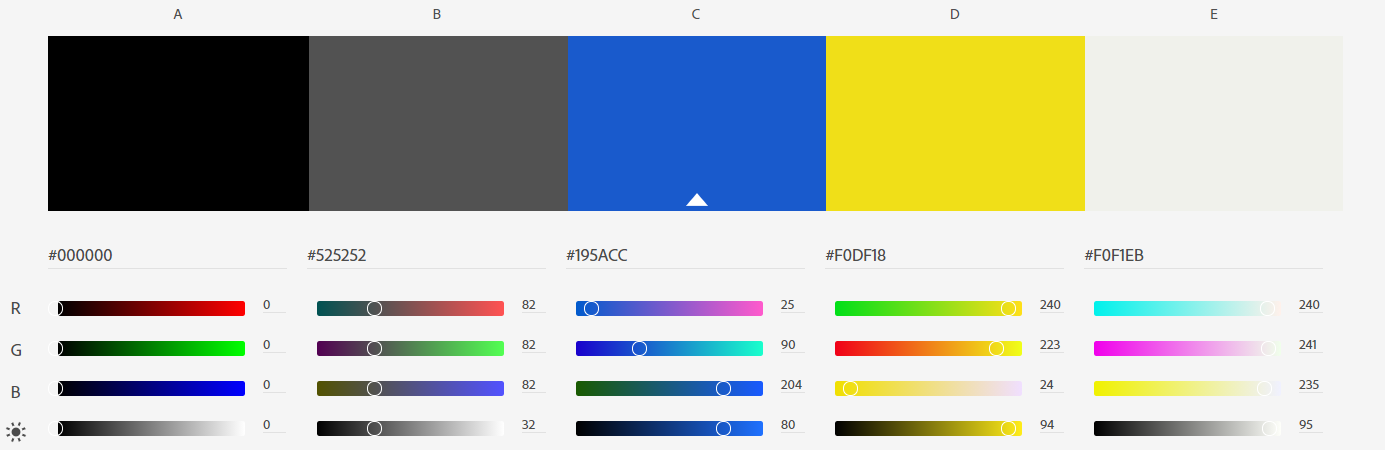
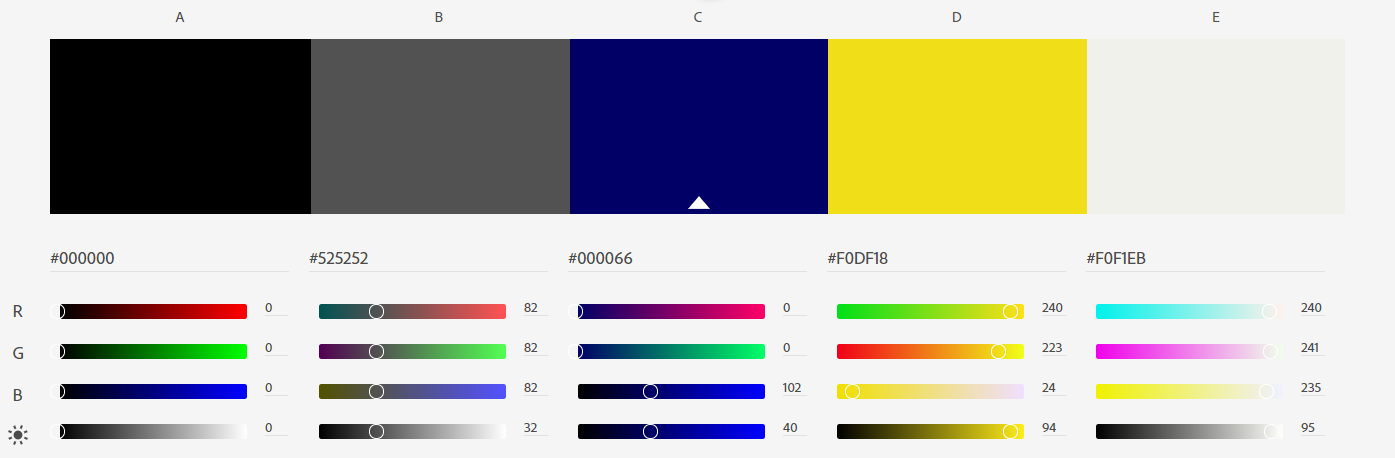
style: updated styling for navbar, footer, section headings and buttons

diff --git a/assets/css/style.css b/assets/css/style.css
@@ -25,14 +25,33 @@ p {
 
 .btn-danger{
     font-family: 'Shadows Into Light Two', cursive;
+    color: #525252;
+    background-color: #F0DF18;
+    border: solid 1px #F0DF18;
+	letter-spacing: 2px;
+}
+
+.btn-danger:hover {
     color: #F0F1EB;
-	letter-spacing: 4px;
-    font-size: 1rem;
+    background-color: #000066;
+    border: solid 1px #000066;
+}
+
+
+.section-title {
+    background-color: #000066;
+    padding: 10px 0px;
+    color: #F0F1EB;
+    border-radius: 5px;
+}
+
+hr {
+    border: solid 1px #525252;
 }
 
 /*---------------------------- Navbar-------------*/
 .bwc-navbar {
-    background-color: #525252; 
+    background-color: #000066; 
 }
 
 .bwc-navbar a {
@@ -63,7 +82,7 @@ p {
 
 .navbar-toggler {
     margin-right: 5px;
-    background-color: black; 
+    background-color: #000066; 
 }
 
 .bwc-nav-list a:hover {
@@ -301,33 +320,26 @@ https://www.google.com/search?q=how+to+make+a+responsive+square+in+css&rlz=1C1CH
 .box-column {
 	height: 120%;
 	padding: 20px 0px;
-	
 }
 
 .box-column img {
 	max-width: 30%;
     height: auto;
-	/* min-width: 30%;
-	min-height: 30%; */
 	margin: 0px;
 	margin: 5px;
-    box-shadow: 0 4px 8px 0 rgba(0, 0, 0, 0.2), 0 6px 20px 0 rgba(0, 0, 0, 0.19);
+    box-shadow: 0 4px 8px 0 rgba(0, 0, 0, 0.2), 0 6px 20px 0 rgba(0, 0, 0, 0.19); /*paper-like cards shadow from w3schools tutorial on box shadows (https://www.w3schools.com/css/css3_shadows_box.asp)*/
 }
 
-.about-title {
-    background-color: #195ACC;
-    padding: 10px 0px;
-    color: #F0F1EB;
-}
+
 
 /*---------------------------- Classes -------------*/
 
 .card {
-    box-shadow: 0 4px 8px 0 rgba(0, 0, 0, 0.2), 0 6px 20px 0 rgba(0, 0, 0, 0.19);
+    box-shadow: 0 4px 8px 0 rgba(0, 0, 0, 0.2), 0 6px 20px 0 rgba(0, 0, 0, 0.19); /*paper-like cards shadow from w3schools tutorial on box shadows (https://www.w3schools.com/css/css3_shadows_box.asp)*/
 }
 
 .card-header {
-    background-color: #195ACC;
+    background-color: #000066;
 }
 
 .card-header p {
@@ -418,9 +430,8 @@ https://www.google.com/search?q=how+to+make+a+responsive+square+in+css&rlz=1C1CH
 }
 
 /*---------------------------- Footer -------------*/
-
 footer {
-    background-color: #525252;
+    background-color: #000066;
     padding: 1em 0em 0em 0em;
 }
 
@@ -431,7 +442,7 @@ footer {
 }
 
 .contact-us a p:hover {
-    color: #F0F1EB;
+    color: #F0DF18;
     font-size: 18px;
 }
 
@@ -449,27 +460,16 @@ ul {
     font-size: 25px;
     margin: 10px 15px;
     color: #F0F1EB;
-    transition: all 0.35s ease-in-out;
-    -moz-transition: all 0.35s ease-in-out;
-    -webkit-transition: all 0.35s ease-in-out;
-    -o-transition: all 0.35s ease-in-out;
+    transition: all 0.25s ease-in-out;
+    -moz-transition: all 0.25s ease-in-out;
+    -webkit-transition: all 0.25s ease-in-out;
+    -o-transition: all 0.25s ease-in-out;
 }
 
-.facebook a i:hover {
-    color: #4267B2;
+.social-links a i:hover {
+    color: #F0DF18;
 }
 
-.instagram a i:hover {
-    color: #C13584;
-}
-
-.youtube a i:hover {
-    color: #FF0000;
-}
-
-.twitter a i:hover {
-    color: #1DA1F2;
-}
 
 /* media querys */
 

diff --git a/about.html b/about.html
@@ -78,7 +78,7 @@
     <div class="container-fluid">
         <div class="row justify-content-center align-items-center">
             <div class="col-12 col-md-10 col-lg-8">
-                <h2 class="text-center about-title">What is Wing Chun?</h2>
+                <h2 class="text-center section-title">What is Wing Chun?</h2>
                 <p>
                 The Wing Chun fighting system, or Wing Chun Kuen (Kuen meaning ‘fist’) is best described as a very direct, 
                 short-range system specialising in close combat.  It is often referred to as a ‘soft’ style of Kung Fu in that 
@@ -111,9 +111,7 @@
     <div class="container-fluid">
         <div class="row justify-content-center align-items-center">
             <div class="col-12 col-md-10 col-lg-8">
-                <hr/>
-                <h2 class="text-center">The history of Wing Chun</h2>
-                <hr/>
+                <h2 class="text-center section-title">The history of Wing Chun</h2>
                 <p>
                 Wing Chun (also spelt Ving Tsun or Wing Tsun) is approximately 200-250 years old and its exact origin is still argued 
                 over today.  However the accepted history is that this martial art was created by the Buddhist nun Ng Mui during the 
@@ -148,9 +146,7 @@
     <div class="container-fluid">
         <div class="row justify-content-center align-items-center">
             <div class="col-12 col-md-10 col-lg-8">
-                <hr/>
-                <h2 class="text-center">About Birmingham Wing Chun Kuen</h2>
-                <hr/>
+                <h2 class="text-center section-title">About Birmingham Wing Chun Kuen</h2>
                 <p>
                 The driving principle of the Birmingham Wing Chun Kuen association is to preserve the true nature of Grandmaster Ip 
                 Man's Wing Chun by teaching and promoting Wing Chun in accordance with Master Ip Chun's own teachings.

diff --git a/classes.html b/classes.html
@@ -109,9 +109,7 @@
     <div class="container-fluid">
         <div class="row justify-content-center">
             <div class="col-12 col-md-6">
-                <hr/>
-                <h2 class="text-center">Training Locations</h2>
-                <hr/>
+                <h2 class="text-center section-title">Training Locations</h2>
             </div>
         </div>
         <div class="row d-flex justify-content-center">
@@ -186,8 +184,7 @@
         <div class="row justify-content-center">
             <div class="col-12 col-md-10 col-lg-8">
                 <hr/>
-                <h2 class="text-center">Prices</h2>
-                <hr/>
+                <h2 class="text-center section-title">Prices</h2>
                 <p>
                 Newcomers to the class are expected to complete a compulsory series of 16 introductory lessons at £7.50 each.  
                 Once you are invited to train at the organisation an annual membership of £40 will need to be paid.  This covers 
@@ -209,9 +206,7 @@
     <div class="container-fluid">
         <div class="row justify-content-center align-items-center">
             <div class="col-12 col-md-10 col-lg-8">
-                <hr/>
-                <h2 class="text-center">What to Expect</h2>
-                <hr/>
+                <h2 class="text-center section-title">What to Expect</h2>
                 <p>
                 You can start at any time as the organisation run an ongoing introductory group.  The basics of Wing Chun are taught 
                 to newcomers during a compulsory series of 16 introductory lessons.  During this time each potential student is 

diff --git a/gallery.html b/gallery.html
@@ -42,8 +42,8 @@
 <!--Gallery-->
 <section id="gallery" class="container">
     <div class="row justify-content-center align-items-center">
-        <div class="col-12">
-            <h2 class="mt-5 text-center">Birmingham Wing Chun Kuen - Gallery</h2>
+        <div class="col-10">
+            <h2 class="mt-5 text-center section-title">Birmingham Wing Chun Kuen - Gallery</h2>
             <p class="text-center">Click on an image below</p>
             <hr class="my-5" />
         </div>

diff --git a/README.md b/README.md
@@ -171,6 +171,7 @@ Bootstrap technology used:
 * Navbar
 * Flex
 * Spacing
+
 ---
 # Testing
 Testing to be completed is detailed in the [TESTING.md](TESTING.md) document
